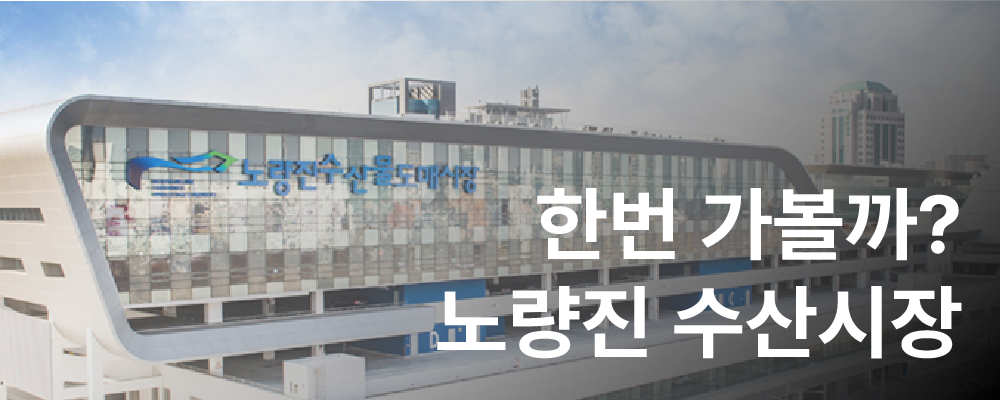
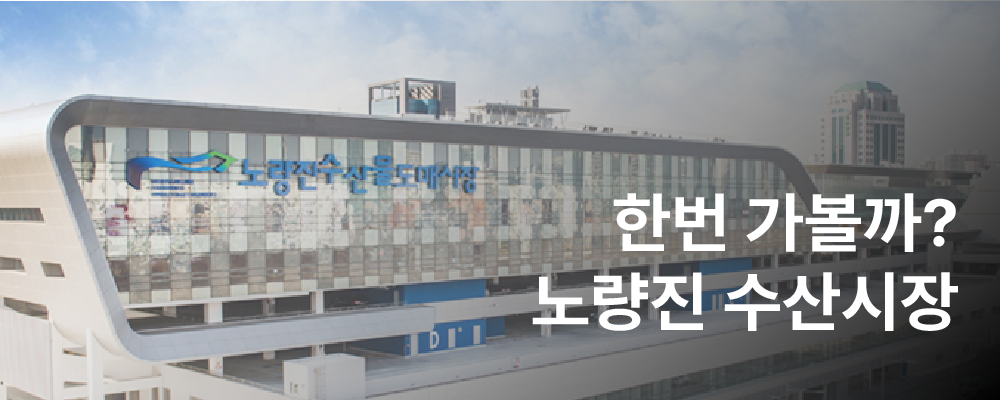
Fix : 메인 배너 수정, 슬라이더  버튼 수정

Changed region(s): [[0.434, 0.45, 0.961, 0.9]]

diff --git a/frontend/src/components/main/MarketList.tsx b/frontend/src/components/main/MarketList.tsx
@@ -6,8 +6,8 @@ import "slick-carousel/slick/slick.css";
 import "slick-carousel/slick/slick-theme.css";
 import "../../assets/styles/sliderdots.css";
 import tutorial from "../../assets/images/market/튜토리얼.png";
-import marketImage1 from "../../assets/images/market/노량진수산시장.png";
-import marketImage2 from "../../assets/images/market/노량진수산시장2.png";
+import marketImage from "../../assets/images/market/노량진수산시장.png";
+import compareFish from "../../assets/images/market/광어도다리가자미.png";
 
 import { Link } from "react-router-dom";
 
@@ -64,10 +64,10 @@ export default function MarketList() {
           </Link>
         </div>
         <div>
-          <ImageContainer src={marketImage1} alt="시장1"></ImageContainer>
+          <ImageContainer src={marketImage} alt="시장"></ImageContainer>
         </div>
         <div>
-          <ImageContainer src={marketImage2} alt="시장2"></ImageContainer>
+          <ImageContainer src={compareFish} alt="비교"></ImageContainer>
         </div>
       </Slider>
     </Wrapper>

diff --git a/frontend/src/components/board/detail/MidContent.tsx b/frontend/src/components/board/detail/MidContent.tsx
@@ -50,7 +50,7 @@ const settings = {
         marginLeft: "5%",
         marginRight: "5%",
         position: "absolute",
-        bottom: "15%",
+        bottom: "10%",
         display: "flex",
         alignItems: "center",
         justifyContent: "center",

diff --git a/frontend/src/index.css b/frontend/src/index.css
@@ -7,6 +7,9 @@
 
 body {
   margin: 0;
+  min-width: 300px;
+  max-width: 420px;
+
   font-family: -apple-system, BlinkMacSystemFont, "Segoe UI", "Roboto", "Oxygen",
     "Ubuntu", "Cantarell", "Fira Sans", "Droid Sans", "Helvetica Neue",
     sans-serif;

diff --git a/frontend/src/components/common/Footer.tsx b/frontend/src/components/common/Footer.tsx
@@ -19,7 +19,8 @@ import { userStore } from "../../stores/userStore";
 const Wrapper = styled.div`
   height: 73px;
   width: 100%;
-
+  min-width: 300px;
+  max-width: 420px;
   position: fixed;
   bottom: 0;
   display: flex;

diff --git a/frontend/src/assets/styles/sliderdots.css b/frontend/src/assets/styles/sliderdots.css
@@ -38,6 +38,10 @@
   padding: 0;
 }
 
+.dots_custom li:only-child {
+  display: none;
+}
+
 .dots_custom li.slick-active button {
   background-color: white;
 }

diff --git a/frontend/src/App.css b/frontend/src/App.css
@@ -1,7 +1,5 @@
 .App {
   text-align: center;
-  min-width: 300px;
-  max-width: 420px;
 }
 
 .App-logo {
